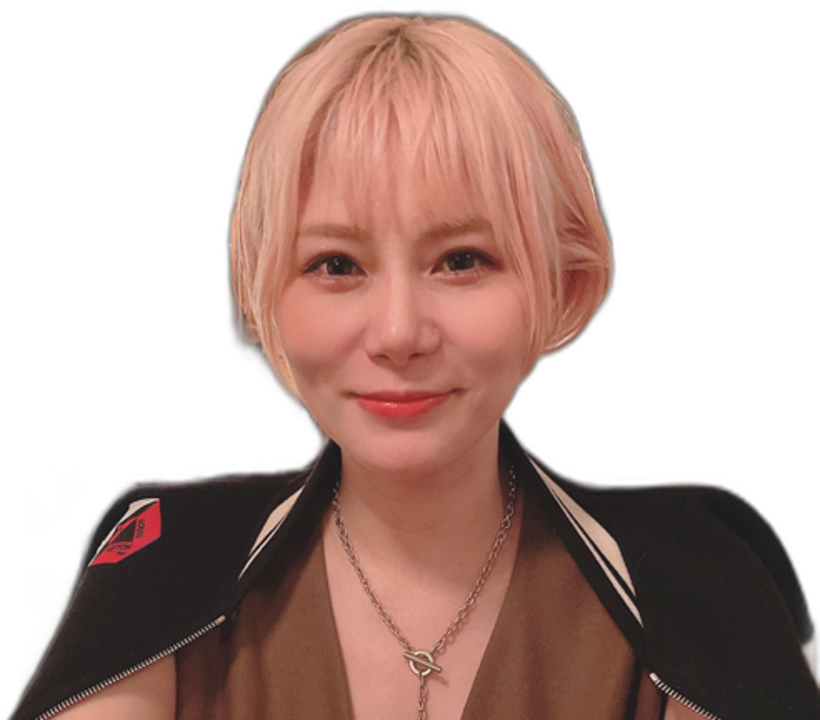
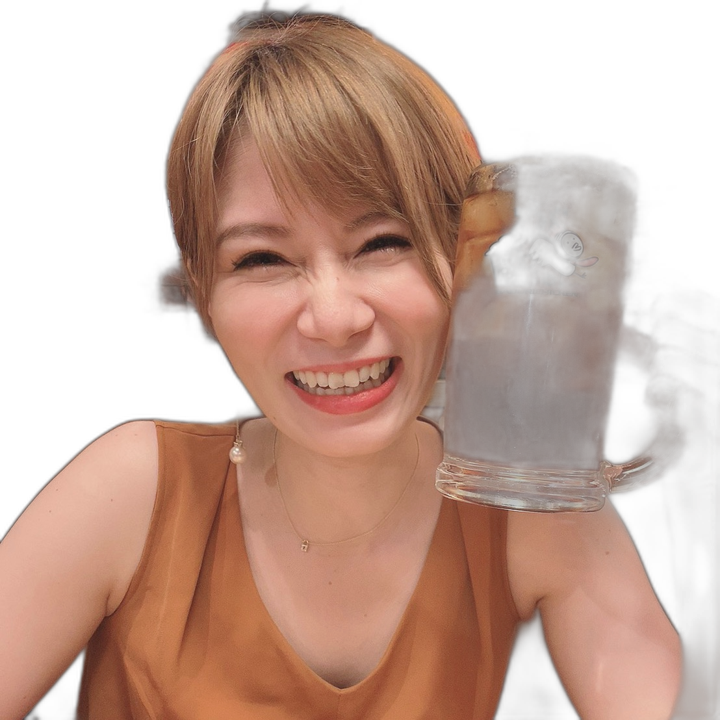
庭を提出数基準の成長に変更／2日未提出で画面暗転リマインド／講師の確認手順をadmin明記／もりくみ写真6枚復活(お酒もそのまま)

diff --git a/admin.html b/admin.html
@@ -81,6 +81,19 @@
 
 .tbl-wrap{ overflow-x:auto; -webkit-overflow-scrolling:touch; }
 
+.how-banner{
+  background:linear-gradient(160deg,#FFF7F0,#fff); border:1px solid var(--rose,#EBD3C8);
+  border-radius:var(--radius); padding:18px 20px; margin-bottom:16px; box-shadow:var(--shadow-sm);
+}
+.how-banner .how-h{ font-size:15px; font-weight:800; color:var(--terra); margin-bottom:10px; }
+.how-banner .how-steps{ margin:0 0 12px; padding-left:20px; }
+.how-banner .how-steps li{ font-size:13.5px; line-height:1.85; color:var(--ink); }
+.how-banner .how-steps b{ color:var(--terra-d,var(--terra)); }
+.how-banner .how-note{
+  font-size:12px; line-height:1.7; color:var(--ink-2); background:#FBF5EC;
+  border-radius:12px; padding:11px 13px; margin:0;
+}
+
 .member-detail-head{
   display:flex; align-items:center; gap:14px; margin-bottom:18px; flex-wrap:wrap;
 }
@@ -139,6 +152,26 @@
      MAIN
 ============================================================ -->
 <main class="wrap" style="padding-top:18px;">
+
+  <!-- 講師向け 使い方ガイド -->
+  <div class="how-banner">
+    <div class="how-h">
+      <svg width="16" height="16" viewBox="0 0 16 16" fill="none" style="vertical-align:-2px;margin-right:5px">
+        <circle cx="8" cy="8" r="7" stroke="currentColor" stroke-width="1.4"/>
+        <path d="M8 7v4M8 5h.01" stroke="currentColor" stroke-width="1.6" stroke-linecap="round"/>
+      </svg>
+      課題が提出されたら、ここを見ればわかります
+    </div>
+    <ol class="how-steps">
+      <li><b>下の「メンバー一覧」</b>で誰がどこまで提出したかが一目でわかります（提出数・最終更新・要フォロー）。</li>
+      <li><b>名前をタップ</b>すると、その人が<b>各Dayに実際に書いた提出内容</b>が読めます。その場で<b>フィードバックを入力→保存</b>できます。</li>
+      <li><b>「Day別 提出率」</b>で、みんながどのDayで止まりやすいか（離脱ポイント）がわかります。</li>
+    </ol>
+    <p class="how-note">
+      ※ 現在は<b>テスト版</b>のため、メンバーの提出は各自の端末に保存されます。講師側で見るには、メンバーが「進捗を送る」で出したファイルを右上の<b>「データ取込」</b>から読み込んでください。<br>
+      （本番では、提出が自動でこの画面に集まる仕組み＝サーバー連携を次の段階で追加します）
+    </p>
+  </div>
 
   <!-- KPI -->
   <div class="hero">

diff --git a/index.html b/index.html
@@ -206,6 +206,10 @@
   </div><!-- /wrap -->
 </div><!-- /app -->
 
+<!-- ===================== 2日以上未提出のリマインド暗転 ===================== -->
+<div class="dim-overlay" id="dim-overlay"></div>
+<div class="dim-note" id="dim-note"></div>
+
 <!-- ===================== DAY MODAL ===================== -->
 <div class="modal-back" id="modal-back" onclick="closeModalBack(event)">
   <div class="modal" id="modal-inner">
@@ -290,6 +294,33 @@ function renderAll() {
   renderStamps(s);
   renderRanking(s);
   renderBadges(s);
+  renderDim(s);
+}
+
+// ---------- 2日以上未提出で画面を暗くする（やさしいリマインド） ----------
+function daysSinceLastSubmit(s) {
+  if (!s) return 0;
+  let last = null;
+  for (const k in s.progress) {
+    const p = s.progress[k];
+    if (p && p.done && p.doneAt) {
+      const iso = String(p.doneAt).slice(0, 10);
+      if (!last || iso > last) last = iso;
+    }
+  }
+  const ref = last || s.startDate || RECHE.todayISO();
+  return RECHE.daysBetween(ref, RECHE.todayISO());
+}
+function renderDim(s) {
+  const note = document.getElementById("dim-note");
+  const gap  = daysSinceLastSubmit(s);
+  if (s && gap >= 2) {
+    document.body.classList.add("dim");
+    note.innerHTML = `<b>${gap}日</b>、お休みしていましたね。<br>今日のミッションを1つ出すと、お庭にも光が戻りますよ☺`;
+  } else {
+    document.body.classList.remove("dim");
+    note.innerHTML = "";
+  }
 }
 
 // ---------- くみこから今日のメッセージ ----------

diff --git a/styles.css b/styles.css
@@ -332,6 +332,17 @@ textarea.input{ min-height:96px; resize:vertical; }
 .dex:not(.on) .dex-ic{ filter:grayscale(1) opacity(.35); }
 .dex-nm{ font-size:10px; color:var(--ink-2); margin-top:4px; font-weight:700; }
 
+/* ---------- 2日以上未提出で画面を暗く（やさしいリマインド） ---------- */
+.dim-overlay{ position:fixed; inset:0; background:rgba(16,11,8,.66); z-index:55;
+  pointer-events:none; opacity:0; transition:opacity .8s ease; }
+body.dim .dim-overlay{ opacity:1; }
+.dim-note{ position:fixed; left:50%; bottom:22px; transform:translateX(-50%) translateY(20px);
+  z-index:57; background:#2b211c; color:#FBF5EC; border:1px solid #4d3d33; border-radius:16px;
+  padding:13px 20px; font-size:13.5px; line-height:1.6; box-shadow:0 14px 30px rgba(0,0,0,.4);
+  max-width:90%; text-align:center; opacity:0; pointer-events:none; transition:.6s; }
+body.dim .dim-note{ opacity:1; transform:translateX(-50%) translateY(0); }
+.dim-note b{ color:#F0C0B5; }
+
 /* ---------- もりくみからの一言（吹き出し＋透過写真） ---------- */
 .mk-card{ position:relative; display:flex; align-items:flex-end; gap:6px;
   background:linear-gradient(160deg,#FFF3EA,#FFFDF9); border:1px solid var(--rose);

diff --git a/garden.js b/garden.js
@@ -65,8 +65,8 @@
   function nextAnimal(done){ return ANIMALS.find(a=>done<a.need) || null; }
 
   function render(state){
-    const done = RECHE.doneCount(state);
-    const lv   = RECHE.level(RECHE.totalPoints(state)).lv;
+    const done = RECHE.doneCount(state);            // 課題提出数で成長
+    const stage = Math.min(6, Math.floor(done / 5) + 1); // 5提出ごとにお店ランクUP
     const got  = unlockedAnimals(done);
     const next = nextAnimal(done);
 
@@ -102,14 +102,14 @@
         <div class="g-scene">
           <div class="g-sky"></div>
           <div class="g-ground"></div>
-          <div class="g-house">${houseSvg(lv)}</div>
+          <div class="g-house">${houseSvg(stage)}</div>
           ${plants}
           ${animals}
           <div class="g-name">${RECHE.esc(state.nick)}のお庭</div>
         </div>
         <div class="g-meta">
-          <span class="g-stat">お店：<b>${RECHE.esc(HOUSE_NAMES[Math.min(5,lv-1)])}</b></span>
-          <span class="g-stat">葉っぱ <b>${done}</b></span>
+          <span class="g-stat">お店：<b>${RECHE.esc(HOUSE_NAMES[stage-1])}</b></span>
+          <span class="g-stat">提出 <b>${done}</b></span>
           <span class="g-stat">おともだち <b>${got.length}</b>／${ANIMALS.length}</span>
         </div>
         <div class="g-hint">${hint}</div>

diff --git a/morikumi.js b/morikumi.js
@@ -57,7 +57,9 @@ window.MORIKUMI = {
     "assets/morikumi/p1.png",
     "assets/morikumi/p2.png",
     "assets/morikumi/p3.png",
-    "assets/morikumi/p4.png"
+    "assets/morikumi/p4.png",
+    "assets/morikumi/p5.png",
+    "assets/morikumi/p6.png"
   ],
 
   daily: {},   // 特定日に固定したい時だけ { "YYYY-MM-DD": {text, photo} }